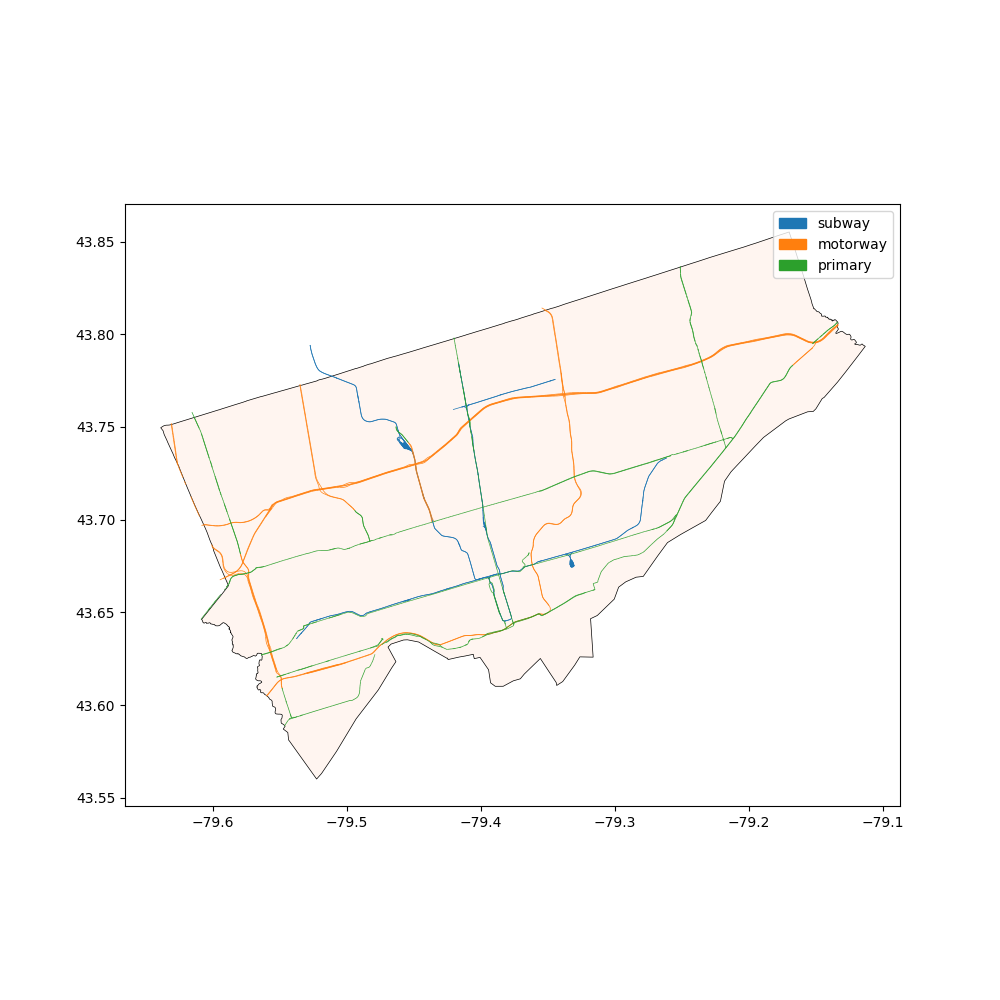
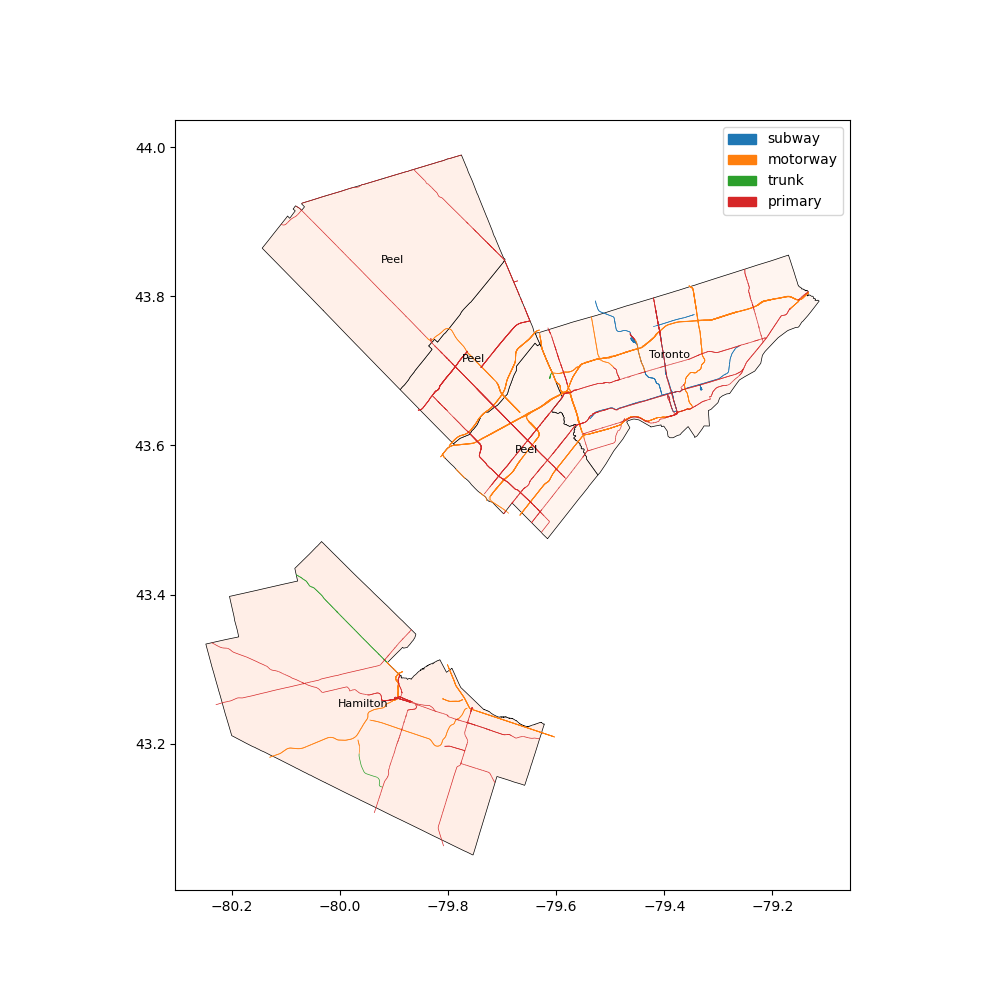
supports multiple polygons at once

diff --git a/fetch_features_in_csds.py b/fetch_features_in_csds.py
@@ -1,10 +1,11 @@
-from fetch_csd_polygon import and_over_or
+from fetch_csd import and_over_or
 
 import geopandas as gpd
 import osmnx as ox
 import matplotlib.pyplot as plt
 import matplotlib.colors as mcolors
 import matplotlib.patches as mpatches
+from shapely.ops import unary_union
 
 #Input
 #   gdf - a GeoDataFrame containing the polygons within which we search, with coordinates in a recognized CRS standard, which we conver to ESPG:4326 to work with OSMNX
@@ -12,15 +13,12 @@ import matplotlib.patches as mpatches
 #Returns: all the features found in each polygon present in gdf (still need to test if this works for multiple polygons)
 def fetch_features(gdf, map_feature_dict):
 
-    assert gdf.crs is not None
-
     #TODO - make it work for multi-polygon
-    #single for now
-    polygon = gdf['geometry'].iloc[0]
-    polygon = gpd.GeoDataFrame(geometry=[polygon], crs=gdf.crs).to_crs("EPSG:4326")
+    multi = unary_union(gdf['geometry'])
+    polygons = gpd.GeoDataFrame(geometry=[multi], crs=gdf.crs)
 
-    #returns a bunch of LineStrings
-    features = ox.features.features_from_polygon(polygon=polygon.iloc[0]['geometry'], tags=map_feature_dict)
+    #API call to extract features from our multipolygon - can timeout
+    features = ox.features.features_from_polygon(polygon=polygons['geometry'].iloc[0], tags=map_feature_dict)
 
     found_keys = []
     #will not necessarily find all feature types
@@ -32,14 +30,15 @@ def fetch_features(gdf, map_feature_dict):
                     print(f'Found at least one {key}:{val}')
                     found_keys.append((key, val))
 
-    return features, polygon, found_keys
+    return features, polygons, found_keys
 
 #Input
-#   gdf : the polygons to plot (need to test if this can be a gdf with multiple non-geometry columns, for now expects geometry)
+#   gdf : the polygons to plot
 #   features : features to plot (expecting geometry such as LineStrings) - will test with other feature types
 #   save_filepath : optional path where to save the graph, if not present, plot displayed and deleted
 #   color_norm_value : optional string representing the gdf column values to normalize polygon coloring according to some condition of the CSDs (i.e. %rental properties)
-def plot_features_over_geometry(gdf, features, feature_keys, save_filepath=None, color_norm_value=None):
+# NOTE: the gdf we plot does not need to be the gdf we searched features over - this is helpful, as we could pass in much more granular CSDs, while querying over the larger Toronto CSD for the API call
+def plot_features_over_geometry(gdf, features, feature_keys, save_filepath=None, color_norm_value=None, label_names=True):
             
     # looks like you need to make the fig and ax separately
     fig, ax = plt.subplots(figsize=(10, 10))
@@ -61,6 +60,19 @@ def plot_features_over_geometry(gdf, features, feature_keys, save_filepath=None,
         edgecolor='black',
         norm=norm
     )
+
+    if label_names:
+
+        for _, row in gdf.iterrows():
+            centroid = row['geometry'].centroid
+            ax.annotate(
+                text=row['CDNAME'],
+                xy=(centroid.x, centroid.y),
+                ha='center',
+                va='center',
+                fontsize=8,
+                color='black'
+            )
 
     #need each feature to have its own color and legend should reflect that
     feature_gdf_list = []
@@ -94,13 +106,15 @@ def plot_features_over_geometry(gdf, features, feature_keys, save_filepath=None,
 
 if __name__ == '__main__':
     #cities in Ontario
+    # gdf = and_over_or('.\GIS_work\data\lcsd000a25p_e.gpkg', feature_dict={'PRNAME' : ['Ontario'], 'CSDTYPE' : ['CTY', 'T']})
     gdf = and_over_or('.\GIS_work\data\lcsd000a25p_e.gpkg', feature_dict={'PRNAME' : ['Ontario'],
                                     'CDNAME' : ['Toronto']})
 
     # features we want to find
-    map_feature_dict = {'railway' : ['subway'], 'highway' : ['motorway', 'trunk', 'primary'], 'route' : ['bus']}
+    map_feature_dict = {'railway' : ['subway'], 'highway' : ['motorway', 'trunk', 'primary', 'bus_stop'], 'amenity' : ['bus_station'], 'cycleway' : ['lane'], 'public_transport' : ['stop_position'], 'route' : ['bus']}
+    # map_feature_dict = {'railway' : ['subway']}
 
-    features, polygon, feature_keys = fetch_features(gdf, map_feature_dict)
+    features, multi_polygon, feature_keys = fetch_features(gdf, map_feature_dict)
 
-    plot_features_over_geometry(polygon, features, feature_keys, save_filepath='.\GIS_work\graphs\\better_graph.png')
+    plot_features_over_geometry(gdf, features, feature_keys, save_filepath='.\GIS_work\graphs\\better_graph_with_bus.png')
 

diff --git a/fetch_csd.py b/fetch_csd.py
@@ -6,11 +6,14 @@ import numpy as np
 #   feature_dict - a dict of key, value_range, we are looking for CSDs that satisfy at least one value in value range over all keys present in feature dict
 #   NOTE - this is an AND over ORs
 # returns a GeoDataFrame (I think) including all of the features outlined in README.md
+
+def reformat_csd(gdf):
+    assert gdf.crs is not None
+    return gpd.GeoDataFrame(gdf, crs=gdf.crs).to_crs("EPSG:4326")
+
 def and_over_or(filepath, feature_dict):
     
     gdf = gpd.read_file(filepath)
-    
-    assert gdf.crs is not None
     
     per_key_masks = []
     
@@ -20,15 +23,13 @@ def and_over_or(filepath, feature_dict):
         per_key_masks.append(np.logical_or.reduce(value_masks))
 
     final_mask = np.logical_and.reduce(per_key_masks)
-    return gdf.loc[final_mask]
+    return reformat_csd(gdf.loc[final_mask])
 
 #NOTE - untested
 #same as above, except only one out of any of the listed conditions need to be true
 def logical_or(filepath, feature_dict):
     
     gdf = gpd.read_file(filepath)
-    
-    assert gdf.crs is not None
     
     per_key_masks = []
     
@@ -38,12 +39,12 @@ def logical_or(filepath, feature_dict):
         per_key_masks.append(np.logical_or.reduce(value_masks))
 
     final_mask = np.logical_or.reduce(per_key_masks)
-    return gdf.loc[final_mask]
+    return reformat_csd(gdf.loc[final_mask])
 
 if __name__ == '__main__':
     #translation: a city OR a town that is in either Ontario or Quebec
     gdf = and_over_or(filepath='.\GIS_work\data\lcsd000a25p_e.gpkg', 
-                     feature_dict={'PRNAME' : ['Ontario', 'Quebec / Québec'],
+                     feature_dict={'PRNAME' : ['Ontario'],
                                    'CSDTYPE' : ['CTY', 'T']})
     #translation: a sub-division that satisfies being a city OR a town OR is in Quebec OR is in Ontario
     gdf2 = logical_or(filepath='.\GIS_work\data\lcsd000a25p_e.gpkg', 
